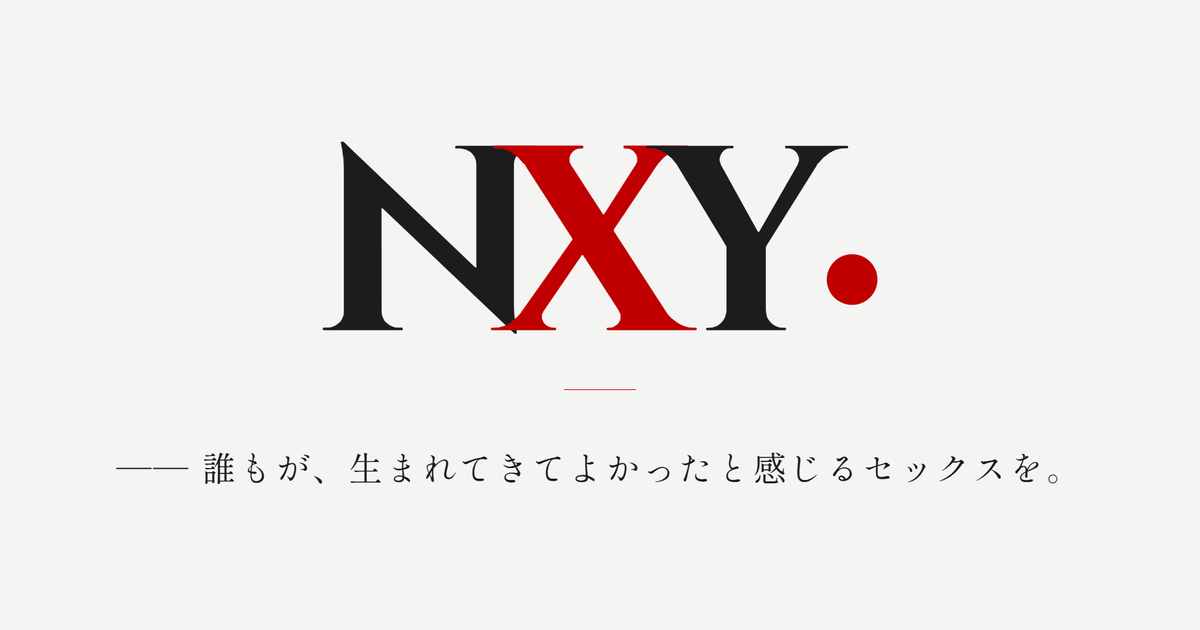
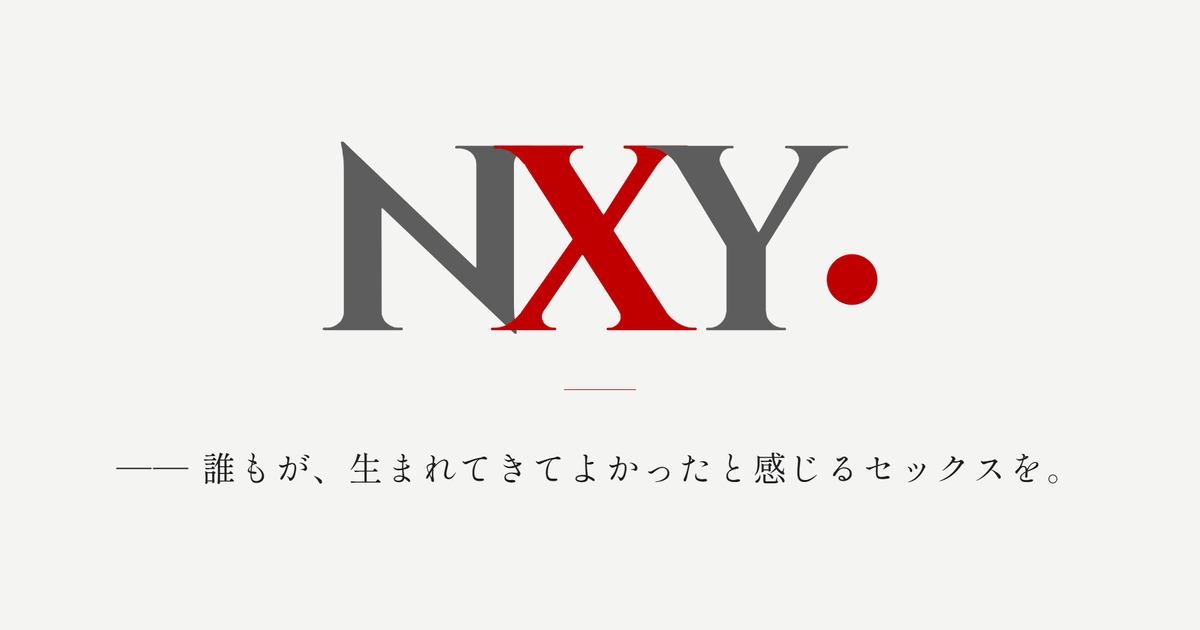
Add files via upload

Changed region(s): [[0.2775, 0.2111, 0.4317, 0.5429], [0.5242, 0.2111, 0.7092, 0.5429]]

diff --git a/index.html b/index.html
@@ -28,7 +28,8 @@
       extend: {
         fontFamily: {
           display: ['"Cormorant Garamond"', 'serif'],
-          jp: ['"Shippori Mincho"', 'serif']
+          jp: ['"Shippori Mincho"', 'serif'],
+          cinzel: ['Cinzel', 'serif']
         },
         letterSpacing: {
           ultra: '0.42em'
@@ -144,10 +145,11 @@
     <div class="h-16 md:h-20 flex items-center justify-between">
 
       <a href="#hero" aria-label="NXY ホームへ" class="block hover:opacity-70 transition-opacity duration-500">
-        <svg class="h-6 md:h-7 w-auto" viewBox="0.5 8.1 55.25 19.6" xmlns="http://www.w3.org/2000/svg" aria-hidden="true" focusable="false">
-          <text x="0" y="27" font-family="Cinzel, serif" font-size="26" font-weight="700" fill="#1C1C1E" letter-spacing="-0.02em">N</text>
+        <!-- N/Y は赤 #C00000 と同じコントラスト比（約 5.9）に揃えて、X を埋没させない -->
+        <svg class="h-5 md:h-6 w-auto" viewBox="0.5 8.1 55.25 19.6" xmlns="http://www.w3.org/2000/svg" aria-hidden="true" focusable="false">
+          <text x="0" y="27" font-family="Cinzel, serif" font-size="26" font-weight="700" fill="#5D5D5E" letter-spacing="-0.02em">N</text>
           <text x="18" y="27" font-family="Cinzel, serif" font-size="26" font-weight="700" fill="#C00000" letter-spacing="-0.02em">X</text>
-          <text x="33.5" y="27" font-family="Cinzel, serif" font-size="26" font-weight="700" fill="#1C1C1E" letter-spacing="-0.02em">Y</text>
+          <text x="33.5" y="27" font-family="Cinzel, serif" font-size="26" font-weight="700" fill="#5D5D5E" letter-spacing="-0.02em">Y</text>
           <circle cx="53" cy="22" r="2.5" fill="#C00000" />
         </svg>
       </a>
@@ -266,9 +268,14 @@
           なぜ、セックスや婚姻には<br class="hidden sm:block" />これほど強いルールがあるのか？
         </h4>
         <div class="space-y-6 text-[15px] md:text-base leading-[2.2] text-[#1C1C1E]/85 font-light">
-          <p class="reveal">進化生物学の視点に立てば、かつて女性が単独で子育てをすることが生存困難だった時代、集団内での庇護や資源（食料）を獲得し、パートナーを引き留めるための適応戦略として「性的快楽」が機能したと言われている。</p>
-          <p class="reveal">さらに人類の歴史において、奪い合いや余計な争いを回避し、集団の秩序を保つために発明された社会システムこそが「一夫一婦制」であり「婚姻制度」だった。</p>
-          <p class="reveal">条件による値踏みも、枠組みによる縛りも、すべてはかつて人類が生存確率を上げるために編み出した「過去の最適解」に過ぎない。</p>
+          <p class="reveal">直立二足歩行を選び、未熟な状態で子どもを産むリスクを抱えた人類。</p>
+          <p class="reveal">避妊技術も社会福祉もなかった太古の時代、女性が単独で妊娠・出産・子育てをおこなうことは生命の危機に直結していた。</p>
+          <p class="reveal">パートナーに特定のインセンティブを与え、子育てのあいだ集団からの庇護や継続的な資源（食料と安全）を獲得し続けるための高度な適応戦略――それこそが、人類固有の「強い性的快楽」と感情的結びつきだったと言われている。</p>
+          <p class="reveal">一方で、集団内のオス同士によるメスの奪い合いや、血縁関係を巡る激しい争いは、群れ全体の存続を脅かす最大の懸念だった。</p>
+          <p class="reveal">そうした暴力や混乱を回避し、共有資源の分配と社会の秩序を保つために発明された人工的なシステムこそが「一夫一婦制」であり「婚姻制度」だったのだ。</p>
+          <p class="reveal">だが、考えてみてほしい。</p>
+          <p class="reveal">生存の危険が大幅に減り、個人の自立が可能になった現代において、私たちは未だに数万年前の「生き残るための本能プログラム」と、数百年前に作られた「社会維持のための契約」に無意識に支配されている。</p>
+          <p class="reveal">条件による値踏みも、枠組みによる縛りも、すべてはかつて過酷な自然界で人類が生存確率を極限まで上げるために編み出した、ただの「過去の最適解」の残像に過ぎない。</p>
         </div>
       </article>
 
@@ -314,21 +321,21 @@
       <div class="lg:col-span-8">
         <ul class="divide-y divide-[#D1D1D6] border-t border-b border-[#D1D1D6]">
           <li class="reveal py-8 md:py-10 flex flex-col sm:flex-row gap-5 sm:gap-10 group">
-            <span class="font-display text-4xl md:text-5xl leading-none text-[#C00000] w-16 shrink-0">N</span>
+            <span class="font-cinzel font-bold text-4xl md:text-5xl leading-none tracking-[-0.02em] text-[#5D5D5E] w-16 shrink-0">N</span>
             <div>
               <p class="font-medium tracking-[0.1em] text-base md:text-lg mb-3">No / New</p>
               <p class="text-[15px] leading-[2.1] font-light text-[#1C1C1E]/85">既存の価値観・現代社会・構造への「NO」。そこから始まる「New（新しい関係性）」。</p>
             </div>
           </li>
           <li class="reveal py-8 md:py-10 flex flex-col sm:flex-row gap-5 sm:gap-10 group" style="--reveal-delay:120ms">
-            <span class="font-display text-4xl md:text-5xl leading-none text-[#C00000] w-16 shrink-0">X</span>
+            <span class="font-cinzel font-bold text-4xl md:text-5xl leading-none tracking-[-0.02em] text-[#C00000] w-16 shrink-0">X</span>
             <div>
               <p class="font-medium tracking-[0.1em] text-base md:text-lg mb-3">SEX / X Chromosome</p>
               <p class="text-[15px] leading-[2.1] font-light text-[#1C1C1E]/85">生身の身体の交わり、本能、そして生命の根源としての「SEX」と「X染色体」。</p>
             </div>
           </li>
           <li class="reveal py-8 md:py-10 flex flex-col sm:flex-row gap-5 sm:gap-10 group" style="--reveal-delay:240ms">
-            <span class="font-display text-4xl md:text-5xl leading-none text-[#C00000] w-16 shrink-0">Y</span>
+            <span class="font-cinzel font-bold text-4xl md:text-5xl leading-none tracking-[-0.02em] text-[#5D5D5E] w-16 shrink-0">Y</span>
             <div>
               <p class="font-medium tracking-[0.1em] text-base md:text-lg mb-3">INTIMACY / Y Chromosome</p>
               <p class="text-[15px] leading-[2.1] font-light text-[#1C1C1E]/85">身体の先にある心と存在の全肯定としての「INTIMACY」と「Y染色体」。</p>
@@ -487,7 +494,6 @@
             <p class="font-display text-[10px] tracking-[0.25em] text-[#666666] mb-5">THEMES ／ 扱うテーマ</p>
             <ul class="flex flex-wrap gap-x-3 gap-y-3 text-[13px] tracking-[0.04em]">
               <li class="border border-[#D1D1D6] bg-[#F4F4F2] px-4 py-2">身体の感覚</li>
-              <li class="border border-[#D1D1D6] bg-[#F4F4F2] px-4 py-2">これまでの性体験</li>
               <li class="border border-[#D1D1D6] bg-[#F4F4F2] px-4 py-2">関係の中の力と不公平感</li>
               <li class="border border-[#D1D1D6] bg-[#F4F4F2] px-4 py-2">避妊とお金</li>
               <li class="border border-[#D1D1D6] bg-[#F4F4F2] px-4 py-2">パートナー以外との関係</li>
@@ -712,9 +718,9 @@
       <div>
         <a href="#hero" aria-label="NXY ホームへ" class="inline-block hover:opacity-70 transition-opacity duration-500">
           <svg class="h-8 w-auto" viewBox="0.5 8.1 55.25 19.6" xmlns="http://www.w3.org/2000/svg" aria-hidden="true" focusable="false">
-            <text x="0" y="27" font-family="Cinzel, serif" font-size="26" font-weight="700" fill="#1C1C1E" letter-spacing="-0.02em">N</text>
+            <text x="0" y="27" font-family="Cinzel, serif" font-size="26" font-weight="700" fill="#5D5D5E" letter-spacing="-0.02em">N</text>
             <text x="18" y="27" font-family="Cinzel, serif" font-size="26" font-weight="700" fill="#C00000" letter-spacing="-0.02em">X</text>
-            <text x="33.5" y="27" font-family="Cinzel, serif" font-size="26" font-weight="700" fill="#1C1C1E" letter-spacing="-0.02em">Y</text>
+            <text x="33.5" y="27" font-family="Cinzel, serif" font-size="26" font-weight="700" fill="#5D5D5E" letter-spacing="-0.02em">Y</text>
             <circle cx="53" cy="22" r="2.5" fill="#C00000" />
           </svg>
         </a>
@@ -1236,13 +1242,21 @@
       meta.appendChild(el('span', 'font-display text-[#C00000]', item.category));
       card.appendChild(meta);
 
-      card.appendChild(el('h3', 'text-lg md:text-xl font-medium leading-[1.85] tracking-[0.04em] mb-5 group-hover:text-[#C00000] transition-colors duration-500', item.title));
+      var title = el('h3', 'text-lg md:text-xl font-medium leading-[1.85] tracking-[0.04em] mb-5 group-hover:text-[#C00000] transition-colors duration-500');
+      var titleLink = el('a', 'link-underline', item.title);
+      titleLink.href = item.link;
+      titleLink.target = '_blank';
+      titleLink.rel = 'noopener noreferrer';
+      title.appendChild(titleLink);
+      card.appendChild(title);
+
       card.appendChild(el('p', 'text-[14px] leading-[2.05] font-light text-[#1C1C1E]/80 mb-8 flex-1', item.summary));
 
       var link = el('a', 'inline-flex items-center gap-3 font-display text-[11px] tracking-[0.25em] text-[#1C1C1E] hover:text-[#C00000] transition-colors duration-500', 'READ ON NOTE');
       link.href = item.link;
       link.target = '_blank';
       link.rel = 'noopener noreferrer';
+      link.setAttribute('aria-label', item.title + '（noteで読む）');
       var dash = el('span', 'inline-block w-8 h-px bg-current transition-all duration-500 group-hover:w-12');
       dash.setAttribute('aria-hidden', 'true');
       link.appendChild(dash);
